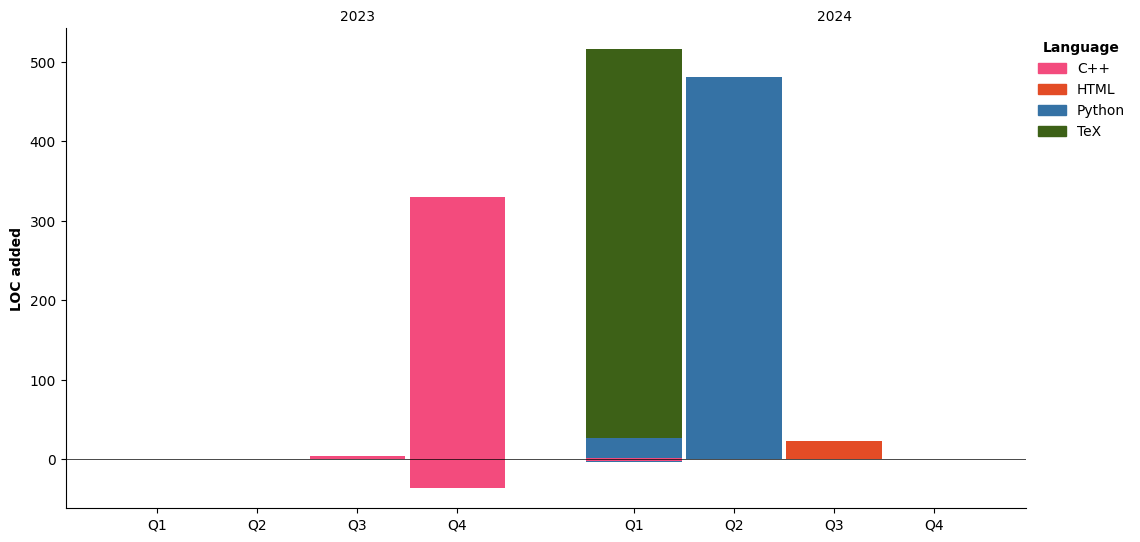
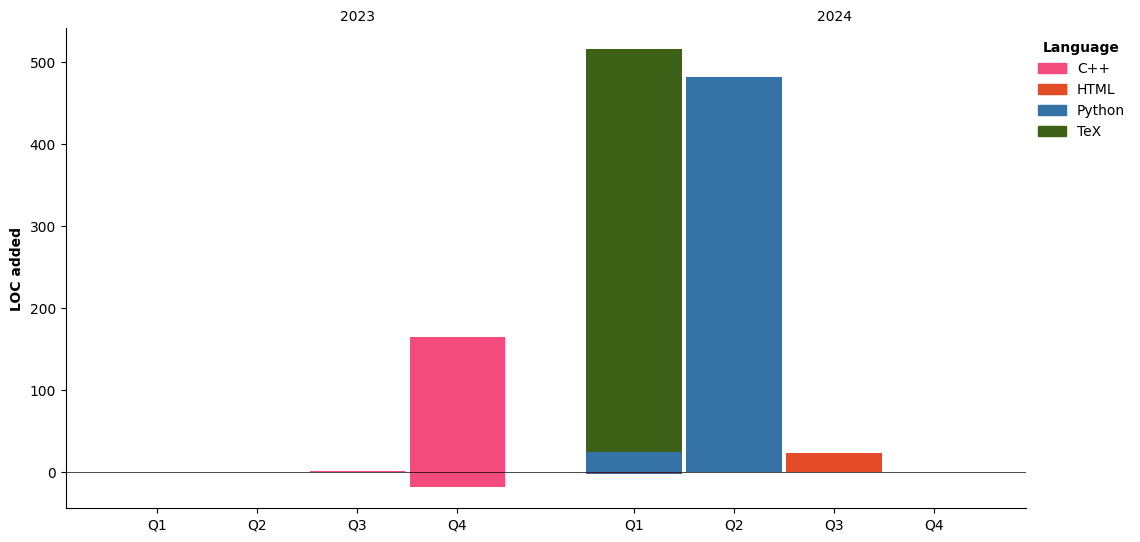
Updated Waka Data

diff --git a/README.md b/README.md
@@ -42,13 +42,13 @@ Game Dev
 
 ![Profile Views](http://img.shields.io/badge/Profile%20Views-0-blue)
 
-![Lines of code](https://img.shields.io/badge/From%20Hello%20World%20I%27ve%20Written-1.4%20thousand%20lines%20of%20code-blue)
+![Lines of code](https://img.shields.io/badge/From%20Hello%20World%20I%27ve%20Written-1.2%20thousand%20lines%20of%20code-blue)
 
 **🐱 My GitHub Data** 
 
 > 📦 30.1 kB Used in GitHub's Storage 
  > 
-> 🏆 42 Contributions in the Year 2024
+> 🏆 41 Contributions in the Year 2024
  > 
 > 🚫 Not Opted to Hire
  > 
@@ -59,21 +59,21 @@ Game Dev
 **I'm a Night 🦉** 
 
 ```text
-🌞 Morning                10 commits          ███░░░░░░░░░░░░░░░░░░░░░░   12.20 % 
-🌆 Daytime                23 commits          ███████░░░░░░░░░░░░░░░░░░   28.05 % 
-🌃 Evening                29 commits          █████████░░░░░░░░░░░░░░░░   35.37 % 
-🌙 Night                  20 commits          ██████░░░░░░░░░░░░░░░░░░░   24.39 % 
+🌞 Morning                8 commits           ███░░░░░░░░░░░░░░░░░░░░░░   10.53 % 
+🌆 Daytime                23 commits          ████████░░░░░░░░░░░░░░░░░   30.26 % 
+🌃 Evening                27 commits          █████████░░░░░░░░░░░░░░░░   35.53 % 
+🌙 Night                  18 commits          ██████░░░░░░░░░░░░░░░░░░░   23.68 % 
 ```
 📅 **I'm Most Productive on Tuesday** 
 
 ```text
-Monday                   5 commits           ██░░░░░░░░░░░░░░░░░░░░░░░   06.10 % 
-Tuesday                  24 commits          ███████░░░░░░░░░░░░░░░░░░   29.27 % 
-Wednesday                13 commits          ████░░░░░░░░░░░░░░░░░░░░░   15.85 % 
-Thursday                 18 commits          █████░░░░░░░░░░░░░░░░░░░░   21.95 % 
-Friday                   3 commits           █░░░░░░░░░░░░░░░░░░░░░░░░   03.66 % 
-Saturday                 5 commits           ██░░░░░░░░░░░░░░░░░░░░░░░   06.10 % 
-Sunday                   14 commits          ████░░░░░░░░░░░░░░░░░░░░░   17.07 % 
+Monday                   3 commits           █░░░░░░░░░░░░░░░░░░░░░░░░   03.95 % 
+Tuesday                  22 commits          ███████░░░░░░░░░░░░░░░░░░   28.95 % 
+Wednesday                11 commits          ████░░░░░░░░░░░░░░░░░░░░░   14.47 % 
+Thursday                 17 commits          ██████░░░░░░░░░░░░░░░░░░░   22.37 % 
+Friday                   4 commits           █░░░░░░░░░░░░░░░░░░░░░░░░   05.26 % 
+Saturday                 5 commits           ██░░░░░░░░░░░░░░░░░░░░░░░   06.58 % 
+Sunday                   14 commits          █████░░░░░░░░░░░░░░░░░░░░   18.42 % 
 ```
 
 
